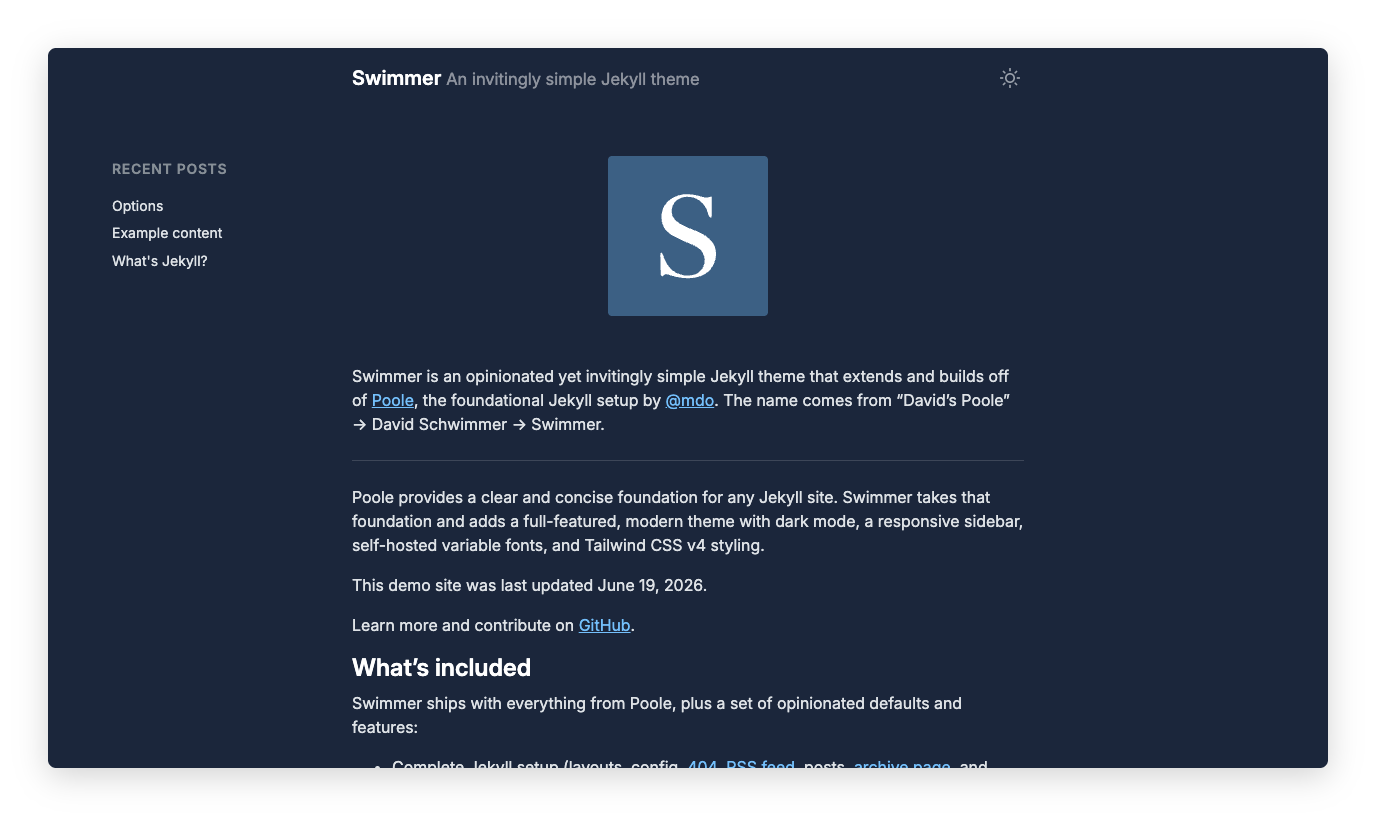
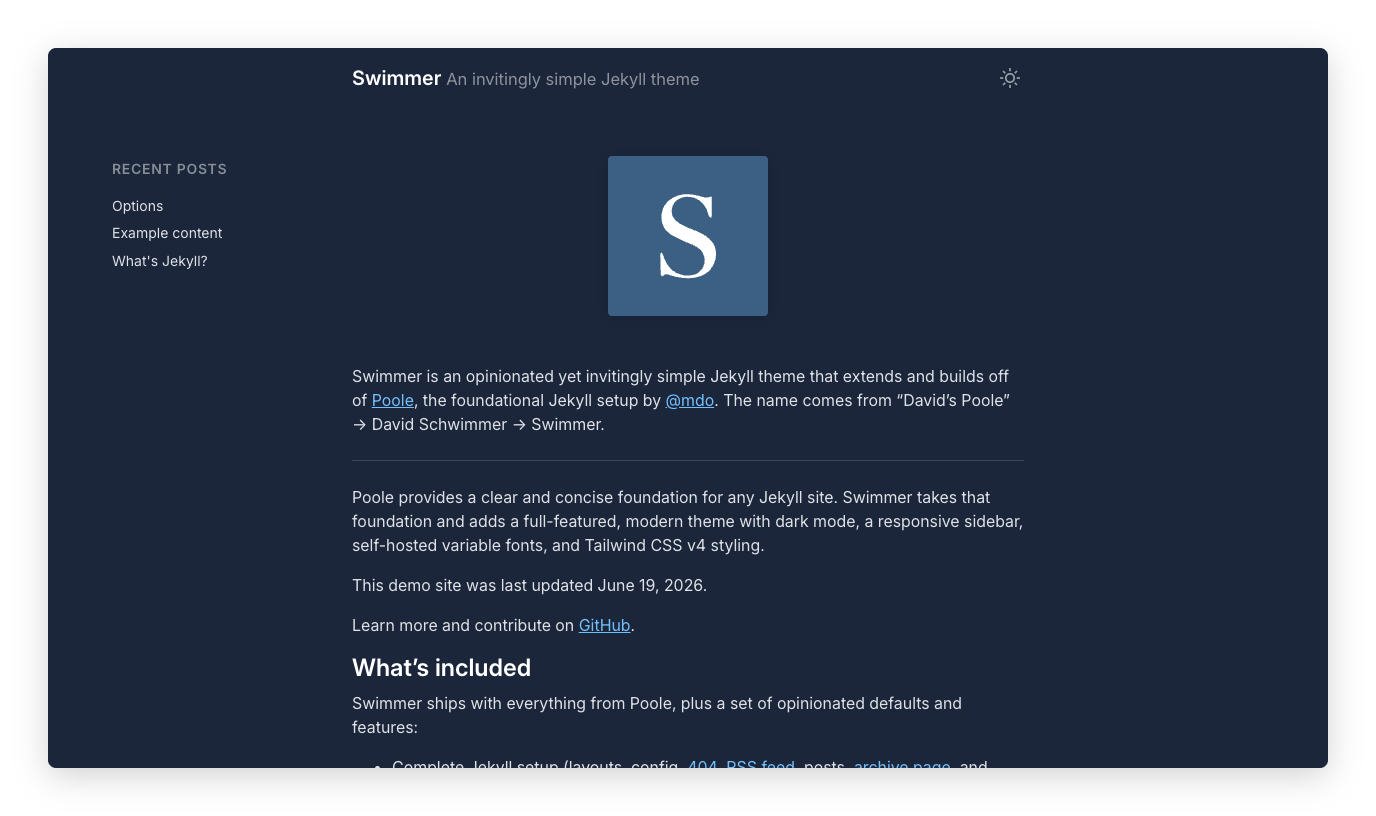
feat: Add GitHub Actions workflows for deployment and PR builds

diff --git a/styles.css b/styles.css
@@ -1,2 +1,2 @@
 /*! tailwindcss v4.3.1 | MIT License | https://tailwindcss.com */
-@layer properties{@supports (((-webkit-hyphens:none)) and (not (margin-trim:inline))) or ((-moz-orient:inline) and (not (color:rgb(from red r g b)))){*,:before,:after,::backdrop{--tw-blur:initial;--tw-brightness:initial;--tw-contrast:initial;--tw-grayscale:initial;--tw-hue-rotate:initial;--tw-invert:initial;--tw-opacity:initial;--tw-saturate:initial;--tw-sepia:initial;--tw-drop-shadow:initial;--tw-drop-shadow-color:initial;--tw-drop-shadow-alpha:100%;--tw-drop-shadow-size:initial}}}@layer theme{:root,:host{--color-blue-300:#74c0fc;--color-blue-400:#4dabf7;--color-gray-100:#f1f3f5;--color-gray-200:#e9ecef;--color-gray-300:#dee2e6;--color-gray-400:#ced4da;--color-gray-500:#adb5bd;--color-gray-600:#868e96;--color-gray-700:#495057;--color-gray-800:#343a40;--color-gray-900:#212529;--color-gray-000:#f8f9fa;--color-red:#fa5252;--color-pink:#e64980;--color-grape:#be4bdb;--color-purple:#7950f2;--color-indigo:#4c6ef5;--color-blue:#228be6;--color-cyan:#15aabf;--color-teal:#12b886;--color-green:#40c057;--color-yellow:#fab005;--color-orange:#fd7e14;--font-body:"Inter", -apple-system, BlinkMacSystemFont, "Segoe UI", Roboto, "Helvetica Neue", Arial, "Noto Sans", sans-serif, "Apple Color Emoji", "Segoe UI Emoji", "Segoe UI Symbol", "Noto Color Emoji";--font-code:"Roboto Mono", SFMono-Regular, Menlo, Monaco, Consolas, "Liberation Mono", "Courier New", monospace;--radius-default:.25rem}}@layer utilities{.fixed{position:fixed}.static{position:static}.contents{display:contents}.hidden{display:none}.inline{display:inline}.grayscale{--tw-grayscale:grayscale(100%);filter:var(--tw-blur,) var(--tw-brightness,) var(--tw-contrast,) var(--tw-grayscale,) var(--tw-hue-rotate,) var(--tw-invert,) var(--tw-saturate,) var(--tw-sepia,) var(--tw-drop-shadow,)}}@font-face{font-family:Inter;font-style:normal;font-weight:100 900;font-display:swap;src:url(assets/fonts/InterVariable.woff2)format("woff2")}@font-face{font-family:Roboto Mono;font-style:normal;font-weight:100 700;font-display:swap;src:url(assets/fonts/RobotoMono-Variable.woff2)format("woff2")}:root{--body-font-size:16px;--body-line-height:1.5;--body-color:var(--color-gray-700);--body-bg:#f7f9fc;--link-color:var(--color-blue);--link-hover-color:#1c7ed6;--heading-color:var(--color-gray-900);--border-color:var(--color-gray-400);--code-color:var(--color-grape);--code-bg:#eef0f5;--highlight-color:var(--color-gray-900);--highlight-bg:#bee5f2;--spacer:1rem;--spacer-2:calc(var(--spacer) * 1.5);--spacer-3:calc(var(--spacer) * 3)}@media (prefers-color-scheme:dark){:root:not([data-theme=light]){--body-color:var(--color-gray-300);--body-bg:#1b263b;--heading-color:#fff;--link-color:var(--color-blue-300);--link-hover-color:var(--color-blue-400);--border-color:#ffffff26;--code-bg:#131c2e;--highlight-color:var(--color-gray-200);--highlight-bg:#1e4a5e}}:root[data-theme=dark]{--body-color:var(--color-gray-300);--body-bg:#1b263b;--heading-color:#fff;--link-color:var(--color-blue-300);--link-hover-color:var(--color-blue-400);--border-color:#ffffff26;--code-bg:#131c2e;--highlight-color:var(--color-gray-200);--highlight-bg:#1e4a5e}*{box-sizing:border-box}body{font-family:var(--font-body);font-size:var(--body-font-size);line-height:var(--body-line-height);color:var(--body-color);background-color:var(--body-bg);-webkit-text-size-adjust:100%;-ms-text-size-adjust:100%;-webkit-font-smoothing:antialiased;-moz-osx-font-smoothing:grayscale;text-rendering:optimizelegibility;margin:0}a{color:var(--link-color)}a:hover,a:focus{color:var(--link-hover-color)}a strong{color:inherit}img{max-width:100%;margin-bottom:var(--spacer);border-radius:var(--radius-default);display:block}table{border:0 solid var(--border-color);border-collapse:collapse;width:100%;margin-bottom:1rem}td,th{border-color:inherit;border-style:solid;border-width:0 0 1px;padding:.25rem .5rem}th{text-align:left}thead th{border-bottom-color:currentColor}mark{color:var(--highlight-color);background-color:var(--highlight-bg);border-radius:.125rem;padding:.15rem}h1,h2,h3,h4,h5,h6{color:var(--heading-color);margin-bottom:.5rem;font-weight:600;line-height:1.25}h1{font-size:2rem}h2{margin-top:1rem;font-size:1.5rem}h3{margin-top:1.5rem;font-size:1.25rem}h4,h5,h6{margin-top:1rem;font-size:1rem}p,ul,ol,dl{margin-top:0;margin-bottom:1rem}dt{font-weight:700}dd{margin-bottom:.5rem}hr{margin:var(--spacer-2) 0;border:0;border-top:1px solid var(--border-color);position:relative}abbr{color:var(--color-gray-600);text-transform:uppercase;font-size:85%;font-weight:700}abbr[title]{cursor:help;border-bottom:1px dotted var(--border-color)}blockquote{color:var(--color-gray-600);border-left:.25rem solid var(--border-color);margin:.8rem 0;padding:.5rem 1rem}blockquote p:last-child{margin-bottom:0}@media (min-width:30em){blockquote{padding-left:1.25rem;padding-right:5rem}}figure{margin:0}a[href^="#fn:"],a[href^="#fnref:"]{margin-left:.1rem;font-weight:700;display:inline-block}.footnotes{margin-top:2rem;font-size:85%}.lead{font-size:1.25rem;font-weight:300}.highlight .hll{background-color:#ffc}.highlight .c{color:#999}.highlight .err{color:#a00;background-color:#faa}.highlight .k{color:#069}.highlight .o{color:#555}.highlight .cm{color:#09f;font-style:italic}.highlight .cp{color:#099}.highlight .c1,.highlight .cs{color:#999}.highlight .gd{background-color:#fcc;border:1px solid #c00}.highlight .ge{font-style:italic}.highlight .gr{color:red}.highlight .gh{color:#030}.highlight .gi{background-color:#cfc;border:1px solid #0c0}.highlight .go{color:#aaa}.highlight .gp{color:#009}.highlight .gu{color:#030}.highlight .gt{color:#9c6}.highlight .kc,.highlight .kd,.highlight .kn,.highlight .kp,.highlight .kr{color:#069}.highlight .kt{color:#078}.highlight .m{color:#f60}.highlight .s{color:#d44950}.highlight .na{color:#4f9fcf}.highlight .nb{color:#366}.highlight .nc{color:#0a8}.highlight .no{color:#360}.highlight .nd{color:#99f}.highlight .ni{color:#999}.highlight .ne{color:#c00}.highlight .nf{color:#c0f}.highlight .nl{color:#99f}.highlight .nn{color:#0cf}.highlight .nt{color:#2f6f9f}.highlight .nv{color:#033}.highlight .ow{color:#000}.highlight .w{color:#bbb}.highlight .mf,.highlight .mh,.highlight .mi,.highlight .mo{color:#f60}.highlight .sb,.highlight .sc{color:#c30}.highlight .sd{color:#c30;font-style:italic}.highlight .s2,.highlight .se,.highlight .sh{color:#c30}.highlight .si{color:#a00}.highlight .sx{color:#c30}.highlight .sr{color:#3aa}.highlight .s1{color:#c30}.highlight .ss{color:#b58900}.highlight .bp{color:#366}.highlight .vc,.highlight .vg,.highlight .vi{color:#033}.highlight .il{color:#f60}.css .o,.css .o+.nt,.css .nt+.nt{color:#999}@media (prefers-color-scheme:dark){:root:not([data-theme=light]) .highlight .hll{background-color:#ffffc814}:root:not([data-theme=light]) .highlight .err{color:#e55;background-color:#ff646426}:root:not([data-theme=light]) .highlight .o{color:#999}:root:not([data-theme=light]) .highlight .cp{color:#2cc}:root:not([data-theme=light]) .highlight .gd{background-color:#ff64641a;border-color:#c55}:root:not([data-theme=light]) .highlight .gh,:root:not([data-theme=light]) .highlight .gu{color:#6abf6a}:root:not([data-theme=light]) .highlight .gi{background-color:#64ff641a;border-color:#5a5}:root:not([data-theme=light]) .highlight .gp{color:#68d}:root:not([data-theme=light]) .highlight .k,:root:not([data-theme=light]) .highlight .kc,:root:not([data-theme=light]) .highlight .kd,:root:not([data-theme=light]) .highlight .kn,:root:not([data-theme=light]) .highlight .kp,:root:not([data-theme=light]) .highlight .kr,:root:not([data-theme=light]) .highlight .kt{color:#5aa8d8}:root:not([data-theme=light]) .highlight .nb,:root:not([data-theme=light]) .highlight .bp{color:#5dadad}:root:not([data-theme=light]) .highlight .nc{color:#2cc9a8}:root:not([data-theme=light]) .highlight .no{color:#7abf4a}:root:not([data-theme=light]) .highlight .nt{color:#5ab0e0}:root:not([data-theme=light]) .highlight .nv,:root:not([data-theme=light]) .highlight .vc,:root:not([data-theme=light]) .highlight .vg,:root:not([data-theme=light]) .highlight .vi{color:#5dadad}:root:not([data-theme=light]) .highlight .ow{color:silver}:root:not([data-theme=light]) .highlight .sr{color:#5cc}}:root[data-theme=dark] .highlight .hll{background-color:#ffffc814}:root[data-theme=dark] .highlight .err{color:#e55;background-color:#ff646426}:root[data-theme=dark] .highlight .o{color:#999}:root[data-theme=dark] .highlight .cp{color:#2cc}:root[data-theme=dark] .highlight .gd{background-color:#ff64641a;border-color:#c55}:root[data-theme=dark] .highlight .gh,:root[data-theme=dark] .highlight .gu{color:#6abf6a}:root[data-theme=dark] .highlight .gi{background-color:#64ff641a;border-color:#5a5}:root[data-theme=dark] .highlight .gp{color:#68d}:root[data-theme=dark] .highlight .k,:root[data-theme=dark] .highlight .kc,:root[data-theme=dark] .highlight .kd,:root[data-theme=dark] .highlight .kn,:root[data-theme=dark] .highlight .kp,:root[data-theme=dark] .highlight .kr,:root[data-theme=dark] .highlight .kt{color:#5aa8d8}:root[data-theme=dark] .highlight .nb,:root[data-theme=dark] .highlight .bp{color:#5dadad}:root[data-theme=dark] .highlight .nc{color:#2cc9a8}:root[data-theme=dark] .highlight .no{color:#7abf4a}:root[data-theme=dark] .highlight .nt{color:#5ab0e0}:root[data-theme=dark] .highlight .nv,:root[data-theme=dark] .highlight .vc,:root[data-theme=dark] .highlight .vg,:root[data-theme=dark] .highlight .vi{color:#5dadad}:root[data-theme=dark] .highlight .ow{color:silver}:root[data-theme=dark] .highlight .sr{color:#5cc}code,pre{font-family:var(--font-code)}code{font-size:85%}pre{margin-top:0;margin-bottom:var(--spacer-3);display:block;overflow:auto}.highlight{padding:var(--spacer);margin-bottom:var(--spacer);background-color:var(--code-bg);border-radius:var(--radius-default)}.highlight pre{margin-bottom:0}.highlight .highlight{padding:0}.rouge-table{margin-bottom:0;font-size:100%}.rouge-table,.rouge-table td,.rouge-table th{border:0}.rouge-table .gutter{vertical-align:top;-webkit-user-select:none;user-select:none;opacity:.25}.gist .markdown-body{padding:15px!important}.site-container{max-width:45rem;padding-left:var(--spacer-2);padding-right:var(--spacer-2);margin-left:auto;margin-right:auto}footer{margin-top:var(--spacer-3);margin-bottom:var(--spacer-3)}.landing-logo{margin:0 auto var(--spacer-3);border-radius:var(--radius-default);display:block}.masthead{justify-content:space-between;align-items:center;gap:var(--spacer);padding-top:var(--spacer);padding-bottom:var(--spacer);margin-bottom:var(--spacer-3);display:flex}.masthead-title{margin-top:0;margin-bottom:0}.masthead-title a{color:inherit;text-decoration:none}.masthead-title small{opacity:.5;font-weight:400}.theme-toggle{cursor:pointer;color:var(--body-color);opacity:.65;background:0 0;border:none;flex-shrink:0;padding:.25rem;line-height:1;transition:opacity .2s}.theme-toggle:hover{opacity:1}.theme-toggle svg{width:1.25rem;height:1.25rem;display:block}.theme-toggle .icon-sun{display:none}.theme-toggle .icon-moon{display:block}@media (prefers-color-scheme:dark){:root:not([data-theme=light]) .theme-toggle .icon-sun{display:block}:root:not([data-theme=light]) .theme-toggle .icon-moon{display:none}}:root[data-theme=dark] .theme-toggle .icon-sun{display:block}:root[data-theme=dark] .theme-toggle .icon-moon,:root[data-theme=light] .theme-toggle .icon-sun{display:none}:root[data-theme=light] .theme-toggle .icon-moon{display:block}.page,.post{margin-bottom:4em}:is(.page,.post) li+li{margin-top:.25rem}.page-title,.post-title{color:var(--heading-color);margin-top:0}.post-title a{color:inherit;text-decoration:none}.post-title a:hover,.post-title a:focus{text-decoration:underline}.post-date{margin-top:-.5rem;margin-bottom:var(--spacer);color:var(--color-gray-600);display:block}.related{padding-top:var(--spacer-2);padding-bottom:var(--spacer-2);margin-bottom:var(--spacer-2);border-top:1px solid var(--border-color);border-bottom:1px solid var(--border-color)}.related-posts{padding-left:0;list-style:none}.related-posts h3{margin-top:0}.related-posts a{text-decoration:none}.related-posts a small{color:var(--color-gray-600)}.post-sidebar-toggle{z-index:40;border:1px solid var(--border-color);border-radius:var(--radius-default);background-color:var(--body-bg);width:2.25rem;height:2.25rem;color:var(--body-color);cursor:pointer;justify-content:center;align-items:center;padding:0;transition:opacity .2s;display:flex;position:fixed;top:.75rem;left:.75rem}.post-sidebar-toggle svg{width:1.25rem;height:1.25rem;display:block}.post-sidebar-toggle:hover{opacity:.7}.post-sidebar-backdrop{z-index:20;opacity:0;pointer-events:none;background:#0006;transition:opacity .25s;position:fixed;inset:0}.post-sidebar-backdrop.open{opacity:1;pointer-events:auto}.post-sidebar{z-index:30;width:16rem;padding:var(--spacer-2);padding-top:var(--spacer-3);background-color:var(--body-bg);border-right:1px solid var(--border-color);transition:transform .25s;position:fixed;top:0;bottom:0;left:0;overflow-y:auto;transform:translate(-100%)}.post-sidebar.open{transform:translate(0)}.post-sidebar-heading{margin-top:0;margin-bottom:var(--spacer);letter-spacing:.05em;text-transform:uppercase;color:var(--color-gray-600);font-size:.875rem;font-weight:600}.post-sidebar-heading--related{margin-top:var(--spacer);padding-top:var(--spacer);border-top:1px solid var(--border-color)}.post-sidebar-list{margin:0;padding-left:0;list-style:none}.post-sidebar-list li+li{margin-top:.25rem}.post-sidebar-list a{color:var(--body-color);padding:.125rem 0;font-size:.875rem;line-height:1.4;text-decoration:none;display:block}.post-sidebar-list a:hover,.post-sidebar-list a:focus{color:var(--link-color)}.post-sidebar-list a.active{color:var(--heading-color);font-weight:600}.post-sidebar-list a.active:before{content:"→ "}@media (min-width:75rem){.post-sidebar-toggle,.post-sidebar-backdrop{display:none}.post-sidebar{top:7rem;left:calc((100vw - 45rem) / 2 - 12rem - var(--spacer-2));z-index:auto;background-color:#0000;border-right:none;width:12rem;max-height:calc(100vh - 8rem);padding:0;transition:none;position:fixed;bottom:auto;overflow-y:auto;transform:none}}.pagination{margin:0 -1.5rem var(--spacer);color:var(--color-gray-600);text-align:center;flex-direction:column;display:flex}.pagination-item{padding:var(--spacer);border:solid var(--border-color);border-width:1px 0;text-decoration:none;display:block}.pagination-item:first-child{margin-bottom:-1px}a.pagination-item:hover{background-color:var(--border-color)}@media (min-width:30em){.pagination{margin:var(--spacer-3) 0;flex-direction:row}.pagination-item{float:left;border-width:1px;width:50%}.pagination-item:first-child{border-top-left-radius:var(--radius-default);border-bottom-left-radius:var(--radius-default);margin-bottom:0}.pagination-item:last-child{border-top-right-radius:var(--radius-default);border-bottom-right-radius:var(--radius-default);margin-left:-1px}}.message{padding:var(--spacer);margin-bottom:var(--spacer);color:var(--highlight-color);background-color:var(--highlight-bg);border-radius:var(--radius-default)}#markdown-toc{padding:var(--spacer-2) var(--spacer-3);margin-bottom:var(--spacer-2);border:solid var(--border-color);border-width:1px 0}#markdown-toc:before{margin-left:calc(var(--spacer-3) * -1);content:"Contents";font-size:85%;font-weight:500;display:block}.colors{grid-template-columns:max-content 1fr;display:grid}.colors dt{border-radius:var(--radius-default);width:3rem;height:3rem;box-shadow:inset 0 0 0 1px #ffffff26}.colors dd{margin-left:var(--spacer)}@property --tw-blur{syntax:"*";inherits:false}@property --tw-brightness{syntax:"*";inherits:false}@property --tw-contrast{syntax:"*";inherits:false}@property --tw-grayscale{syntax:"*";inherits:false}@property --tw-hue-rotate{syntax:"*";inherits:false}@property --tw-invert{syntax:"*";inherits:false}@property --tw-opacity{syntax:"*";inherits:false}@property --tw-saturate{syntax:"*";inherits:false}@property --tw-sepia{syntax:"*";inherits:false}@property --tw-drop-shadow{syntax:"*";inherits:false}@property --tw-drop-shadow-color{syntax:"*";inherits:false}@property --tw-drop-shadow-alpha{syntax:"<percentage>";inherits:false;initial-value:100%}@property --tw-drop-shadow-size{syntax:"*";inherits:false}
+@layer properties{@supports (((-webkit-hyphens:none)) and (not (margin-trim:inline))) or ((-moz-orient:inline) and (not (color:rgb(from red r g b)))){*,:before,:after,::backdrop{--tw-blur:initial;--tw-brightness:initial;--tw-contrast:initial;--tw-grayscale:initial;--tw-hue-rotate:initial;--tw-invert:initial;--tw-opacity:initial;--tw-saturate:initial;--tw-sepia:initial;--tw-drop-shadow:initial;--tw-drop-shadow-color:initial;--tw-drop-shadow-alpha:100%;--tw-drop-shadow-size:initial}}}@layer theme{:root,:host{--color-blue-300:#74c0fc;--color-blue-400:#4dabf7;--color-gray-100:#f1f3f5;--color-gray-200:#e9ecef;--color-gray-300:#dee2e6;--color-gray-400:#ced4da;--color-gray-500:#adb5bd;--color-gray-600:#868e96;--color-gray-700:#495057;--color-gray-800:#343a40;--color-gray-900:#212529;--color-gray-000:#f8f9fa;--color-red:#fa5252;--color-pink:#e64980;--color-grape:#be4bdb;--color-purple:#7950f2;--color-indigo:#4c6ef5;--color-blue:#228be6;--color-cyan:#15aabf;--color-teal:#12b886;--color-green:#40c057;--color-yellow:#fab005;--color-orange:#fd7e14;--font-body:"Inter", -apple-system, BlinkMacSystemFont, "Segoe UI", Roboto, "Helvetica Neue", Arial, "Noto Sans", sans-serif, "Apple Color Emoji", "Segoe UI Emoji", "Segoe UI Symbol", "Noto Color Emoji";--font-code:"Roboto Mono", SFMono-Regular, Menlo, Monaco, Consolas, "Liberation Mono", "Courier New", monospace;--radius-default:.25rem}}@layer utilities{.fixed{position:fixed}.static{position:static}.contents{display:contents}.hidden{display:none}.inline{display:inline}.grayscale{--tw-grayscale:grayscale(100%);filter:var(--tw-blur,) var(--tw-brightness,) var(--tw-contrast,) var(--tw-grayscale,) var(--tw-hue-rotate,) var(--tw-invert,) var(--tw-saturate,) var(--tw-sepia,) var(--tw-drop-shadow,)}}@font-face{font-family:Inter;font-style:normal;font-weight:100 900;font-display:swap;src:url(assets/fonts/InterVariable.woff2)format("woff2")}@font-face{font-family:Roboto Mono;font-style:normal;font-weight:100 700;font-display:swap;src:url(assets/fonts/RobotoMono-Variable.woff2)format("woff2")}:root{--body-font-size:16px;--body-line-height:1.5;--body-color:var(--color-gray-700);--body-bg:#f7f9fc;--link-color:var(--color-blue);--link-hover-color:#1c7ed6;--heading-color:var(--color-gray-900);--border-color:var(--color-gray-400);--code-color:var(--color-grape);--code-bg:#eef0f5;--highlight-color:var(--color-gray-900);--highlight-bg:#bee5f2;--spacer:1rem;--spacer-2:calc(var(--spacer) * 1.5);--spacer-3:calc(var(--spacer) * 3)}@media (prefers-color-scheme:dark){:root:not([data-theme=light]){--body-color:var(--color-gray-300);--body-bg:#1b263b;--heading-color:#fff;--link-color:var(--color-blue-300);--link-hover-color:var(--color-blue-400);--border-color:#ffffff26;--code-bg:#131c2e;--highlight-color:var(--color-gray-200);--highlight-bg:#1e4a5e}}:root[data-theme=dark]{--body-color:var(--color-gray-300);--body-bg:#1b263b;--heading-color:#fff;--link-color:var(--color-blue-300);--link-hover-color:var(--color-blue-400);--border-color:#ffffff26;--code-bg:#131c2e;--highlight-color:var(--color-gray-200);--highlight-bg:#1e4a5e}*{box-sizing:border-box}body{font-family:var(--font-body);font-size:var(--body-font-size);line-height:var(--body-line-height);color:var(--body-color);background-color:var(--body-bg);-webkit-text-size-adjust:100%;-ms-text-size-adjust:100%;-webkit-font-smoothing:antialiased;-moz-osx-font-smoothing:grayscale;text-rendering:optimizelegibility;margin:0}a{color:var(--link-color)}a:hover,a:focus{color:var(--link-hover-color)}a strong{color:inherit}img{max-width:100%;margin-bottom:var(--spacer);border-radius:var(--radius-default);display:block}table{border:0 solid var(--border-color);border-collapse:collapse;width:100%;margin-bottom:1rem}td,th{border-color:inherit;border-style:solid;border-width:0 0 1px;padding:.25rem .5rem}th{text-align:left}thead th{border-bottom-color:currentColor}mark{color:var(--highlight-color);background-color:var(--highlight-bg);border-radius:.125rem;padding:.15rem}h1,h2,h3,h4,h5,h6{color:var(--heading-color);margin-bottom:.5rem;font-weight:600;line-height:1.25}h1{font-size:2rem}h2{margin-top:1rem;font-size:1.5rem}h3{margin-top:1.5rem;font-size:1.25rem}h4,h5,h6{margin-top:1rem;font-size:1rem}p,ul,ol,dl{margin-top:0;margin-bottom:1rem}dt{font-weight:700}dd{margin-bottom:.5rem}hr{margin:var(--spacer-2) 0;border:0;border-top:1px solid var(--border-color);position:relative}abbr{color:var(--color-gray-600);text-transform:uppercase;font-size:85%;font-weight:700}abbr[title]{cursor:help;border-bottom:1px dotted var(--border-color)}blockquote{color:var(--color-gray-600);border-left:.25rem solid var(--border-color);margin:.8rem 0;padding:.5rem 1rem}blockquote p:last-child{margin-bottom:0}@media (min-width:30em){blockquote{padding-left:1.25rem;padding-right:5rem}}figure{margin:0}a[href^="#fn:"],a[href^="#fnref:"]{margin-left:.1rem;font-weight:700;display:inline-block}.footnotes{margin-top:2rem;font-size:85%}.lead{font-size:1.25rem;font-weight:300}.highlight .hll{background-color:#ffc}.highlight .c{color:#999}.highlight .err{color:#a00;background-color:#faa}.highlight .k{color:#069}.highlight .o{color:#555}.highlight .cm{color:#09f;font-style:italic}.highlight .cp{color:#099}.highlight .c1,.highlight .cs{color:#999}.highlight .gd{background-color:#fcc;border:1px solid #c00}.highlight .ge{font-style:italic}.highlight .gr{color:red}.highlight .gh{color:#030}.highlight .gi{background-color:#cfc;border:1px solid #0c0}.highlight .go{color:#aaa}.highlight .gp{color:#009}.highlight .gu{color:#030}.highlight .gt{color:#9c6}.highlight .kc,.highlight .kd,.highlight .kn,.highlight .kp,.highlight .kr{color:#069}.highlight .kt{color:#078}.highlight .m{color:#f60}.highlight .s{color:#d44950}.highlight .na{color:#4f9fcf}.highlight .nb{color:#366}.highlight .nc{color:#0a8}.highlight .no{color:#360}.highlight .nd{color:#99f}.highlight .ni{color:#999}.highlight .ne{color:#c00}.highlight .nf{color:#c0f}.highlight .nl{color:#99f}.highlight .nn{color:#0cf}.highlight .nt{color:#2f6f9f}.highlight .nv{color:#033}.highlight .ow{color:#000}.highlight .w{color:#bbb}.highlight .mf,.highlight .mh,.highlight .mi,.highlight .mo{color:#f60}.highlight .sb,.highlight .sc{color:#c30}.highlight .sd{color:#c30;font-style:italic}.highlight .s2,.highlight .se,.highlight .sh{color:#c30}.highlight .si{color:#a00}.highlight .sx{color:#c30}.highlight .sr{color:#3aa}.highlight .s1{color:#c30}.highlight .ss{color:#b58900}.highlight .bp{color:#366}.highlight .vc,.highlight .vg,.highlight .vi{color:#033}.highlight .il{color:#f60}.css .o,.css .o+.nt,.css .nt+.nt{color:#999}@media (prefers-color-scheme:dark){:root:not([data-theme=light]) .highlight .hll{background-color:#ffffc814}:root:not([data-theme=light]) .highlight .err{color:#e55;background-color:#ff646426}:root:not([data-theme=light]) .highlight .o{color:#999}:root:not([data-theme=light]) .highlight .cp{color:#2cc}:root:not([data-theme=light]) .highlight .gd{background-color:#ff64641a;border-color:#c55}:root:not([data-theme=light]) .highlight .gh,:root:not([data-theme=light]) .highlight .gu{color:#6abf6a}:root:not([data-theme=light]) .highlight .gi{background-color:#64ff641a;border-color:#5a5}:root:not([data-theme=light]) .highlight .gp{color:#68d}:root:not([data-theme=light]) .highlight .k,:root:not([data-theme=light]) .highlight .kc,:root:not([data-theme=light]) .highlight .kd,:root:not([data-theme=light]) .highlight .kn,:root:not([data-theme=light]) .highlight .kp,:root:not([data-theme=light]) .highlight .kr,:root:not([data-theme=light]) .highlight .kt{color:#5aa8d8}:root:not([data-theme=light]) .highlight .nb,:root:not([data-theme=light]) .highlight .bp{color:#5dadad}:root:not([data-theme=light]) .highlight .nc{color:#2cc9a8}:root:not([data-theme=light]) .highlight .no{color:#7abf4a}:root:not([data-theme=light]) .highlight .nt{color:#5ab0e0}:root:not([data-theme=light]) .highlight .nv,:root:not([data-theme=light]) .highlight .vc,:root:not([data-theme=light]) .highlight .vg,:root:not([data-theme=light]) .highlight .vi{color:#5dadad}:root:not([data-theme=light]) .highlight .ow{color:silver}:root:not([data-theme=light]) .highlight .sr{color:#5cc}}:root[data-theme=dark] .highlight .hll{background-color:#ffffc814}:root[data-theme=dark] .highlight .err{color:#e55;background-color:#ff646426}:root[data-theme=dark] .highlight .o{color:#999}:root[data-theme=dark] .highlight .cp{color:#2cc}:root[data-theme=dark] .highlight .gd{background-color:#ff64641a;border-color:#c55}:root[data-theme=dark] .highlight .gh,:root[data-theme=dark] .highlight .gu{color:#6abf6a}:root[data-theme=dark] .highlight .gi{background-color:#64ff641a;border-color:#5a5}:root[data-theme=dark] .highlight .gp{color:#68d}:root[data-theme=dark] .highlight .k,:root[data-theme=dark] .highlight .kc,:root[data-theme=dark] .highlight .kd,:root[data-theme=dark] .highlight .kn,:root[data-theme=dark] .highlight .kp,:root[data-theme=dark] .highlight .kr,:root[data-theme=dark] .highlight .kt{color:#5aa8d8}:root[data-theme=dark] .highlight .nb,:root[data-theme=dark] .highlight .bp{color:#5dadad}:root[data-theme=dark] .highlight .nc{color:#2cc9a8}:root[data-theme=dark] .highlight .no{color:#7abf4a}:root[data-theme=dark] .highlight .nt{color:#5ab0e0}:root[data-theme=dark] .highlight .nv,:root[data-theme=dark] .highlight .vc,:root[data-theme=dark] .highlight .vg,:root[data-theme=dark] .highlight .vi{color:#5dadad}:root[data-theme=dark] .highlight .ow{color:silver}:root[data-theme=dark] .highlight .sr{color:#5cc}code,pre{font-family:var(--font-code)}code{font-size:85%}pre{margin-top:0;margin-bottom:var(--spacer-3);display:block;overflow:auto}.highlight{padding:var(--spacer);margin-bottom:var(--spacer);background-color:var(--code-bg);border-radius:var(--radius-default)}.highlight pre{margin-bottom:0}.highlight .highlight{padding:0}.rouge-table{margin-bottom:0;font-size:100%}.rouge-table,.rouge-table td,.rouge-table th{border:0}.rouge-table .gutter{vertical-align:top;-webkit-user-select:none;user-select:none;opacity:.25}.gist .markdown-body{padding:15px!important}.site-container{max-width:45rem;padding-left:var(--spacer-2);padding-right:var(--spacer-2);margin-left:auto;margin-right:auto}footer{margin-top:var(--spacer-3);margin-bottom:var(--spacer-3)}.landing-logo{margin:0 auto var(--spacer-3);border-radius:var(--radius-default);filter:drop-shadow(0 2px 8px #00000026);display:block}.masthead{justify-content:space-between;align-items:center;gap:var(--spacer);padding-top:var(--spacer);padding-bottom:var(--spacer);margin-bottom:var(--spacer-3);display:flex}.masthead-title{margin-top:0;margin-bottom:0}.masthead-title a{color:inherit;text-decoration:none}.masthead-title small{opacity:.5;font-weight:400}.theme-toggle{cursor:pointer;color:var(--body-color);opacity:.65;background:0 0;border:none;flex-shrink:0;padding:.25rem;line-height:1;transition:opacity .2s}.theme-toggle:hover{opacity:1}.theme-toggle svg{width:1.25rem;height:1.25rem;display:block}.theme-toggle .icon-sun{display:none}.theme-toggle .icon-moon{display:block}@media (prefers-color-scheme:dark){:root:not([data-theme=light]) .theme-toggle .icon-sun{display:block}:root:not([data-theme=light]) .theme-toggle .icon-moon{display:none}}:root[data-theme=dark] .theme-toggle .icon-sun{display:block}:root[data-theme=dark] .theme-toggle .icon-moon,:root[data-theme=light] .theme-toggle .icon-sun{display:none}:root[data-theme=light] .theme-toggle .icon-moon{display:block}.page,.post{margin-bottom:4em}:is(.page,.post) li+li{margin-top:.25rem}.page-title,.post-title{color:var(--heading-color);margin-top:0}.post-title a{color:inherit;text-decoration:none}.post-title a:hover,.post-title a:focus{text-decoration:underline}.post-date{margin-top:-.5rem;margin-bottom:var(--spacer);color:var(--color-gray-600);display:block}.related{padding-top:var(--spacer-2);padding-bottom:var(--spacer-2);margin-bottom:var(--spacer-2);border-top:1px solid var(--border-color);border-bottom:1px solid var(--border-color)}.related-posts{padding-left:0;list-style:none}.related-posts h3{margin-top:0}.related-posts a{text-decoration:none}.related-posts a small{color:var(--color-gray-600)}.post-sidebar-toggle{z-index:40;border:1px solid var(--border-color);border-radius:var(--radius-default);background-color:var(--body-bg);width:2.25rem;height:2.25rem;color:var(--body-color);cursor:pointer;justify-content:center;align-items:center;padding:0;transition:opacity .2s;display:flex;position:fixed;top:.75rem;left:.75rem}.post-sidebar-toggle svg{width:1.25rem;height:1.25rem;display:block}.post-sidebar-toggle:hover{opacity:.7}.post-sidebar-backdrop{z-index:20;opacity:0;pointer-events:none;background:#0006;transition:opacity .25s;position:fixed;inset:0}.post-sidebar-backdrop.open{opacity:1;pointer-events:auto}.post-sidebar{z-index:30;width:16rem;padding:var(--spacer-2);padding-top:var(--spacer-3);background-color:var(--body-bg);border-right:1px solid var(--border-color);transition:transform .25s;position:fixed;top:0;bottom:0;left:0;overflow-y:auto;transform:translate(-100%)}.post-sidebar.open{transform:translate(0)}.post-sidebar-heading{margin-top:0;margin-bottom:var(--spacer);letter-spacing:.05em;text-transform:uppercase;color:var(--color-gray-600);font-size:.875rem;font-weight:600}.post-sidebar-heading--related{margin-top:var(--spacer);padding-top:var(--spacer);border-top:1px solid var(--border-color)}.post-sidebar-list{margin:0;padding-left:0;list-style:none}.post-sidebar-list li+li{margin-top:.25rem}.post-sidebar-list a{color:var(--body-color);padding:.125rem 0;font-size:.875rem;line-height:1.4;text-decoration:none;display:block}.post-sidebar-list a:hover,.post-sidebar-list a:focus{color:var(--link-color)}.post-sidebar-list a.active{color:var(--heading-color);font-weight:600}.post-sidebar-list a.active:before{content:"→ "}@media (min-width:75rem){.post-sidebar-toggle,.post-sidebar-backdrop{display:none}.post-sidebar{top:7rem;left:calc((100vw - 45rem) / 2 - 12rem - var(--spacer-2));z-index:auto;background-color:#0000;border-right:none;width:12rem;max-height:calc(100vh - 8rem);padding:0;transition:none;position:fixed;bottom:auto;overflow-y:auto;transform:none}}.pagination{margin:0 -1.5rem var(--spacer);color:var(--color-gray-600);text-align:center;flex-direction:column;display:flex}.pagination-item{padding:var(--spacer);border:solid var(--border-color);border-width:1px 0;text-decoration:none;display:block}.pagination-item:first-child{margin-bottom:-1px}a.pagination-item:hover{background-color:var(--border-color)}@media (min-width:30em){.pagination{margin:var(--spacer-3) 0;flex-direction:row}.pagination-item{float:left;border-width:1px;width:50%}.pagination-item:first-child{border-top-left-radius:var(--radius-default);border-bottom-left-radius:var(--radius-default);margin-bottom:0}.pagination-item:last-child{border-top-right-radius:var(--radius-default);border-bottom-right-radius:var(--radius-default);margin-left:-1px}}.message{padding:var(--spacer);margin-bottom:var(--spacer);color:var(--highlight-color);background-color:var(--highlight-bg);border-radius:var(--radius-default)}#markdown-toc{padding:var(--spacer-2) var(--spacer-3);margin-bottom:var(--spacer-2);border:solid var(--border-color);border-width:1px 0}#markdown-toc:before{margin-left:calc(var(--spacer-3) * -1);content:"Contents";font-size:85%;font-weight:500;display:block}.colors{grid-template-columns:max-content 1fr;display:grid}.colors dt{border-radius:var(--radius-default);width:3rem;height:3rem;box-shadow:inset 0 0 0 1px #ffffff26}.colors dd{margin-left:var(--spacer)}@property --tw-blur{syntax:"*";inherits:false}@property --tw-brightness{syntax:"*";inherits:false}@property --tw-contrast{syntax:"*";inherits:false}@property --tw-grayscale{syntax:"*";inherits:false}@property --tw-hue-rotate{syntax:"*";inherits:false}@property --tw-invert{syntax:"*";inherits:false}@property --tw-opacity{syntax:"*";inherits:false}@property --tw-saturate{syntax:"*";inherits:false}@property --tw-sepia{syntax:"*";inherits:false}@property --tw-drop-shadow{syntax:"*";inherits:false}@property --tw-drop-shadow-color{syntax:"*";inherits:false}@property --tw-drop-shadow-alpha{syntax:"<percentage>";inherits:false;initial-value:100%}@property --tw-drop-shadow-size{syntax:"*";inherits:false}

diff --git a/_css/layout.css b/_css/layout.css
@@ -15,4 +15,5 @@ footer {
   display: block;
   margin: 0 auto var(--spacer-3);
   border-radius: var(--radius-default);
+  filter: drop-shadow(0 2px 8px rgba(0, 0, 0, 0.15));
 }

diff --git a/about.md b/about.md
@@ -9,7 +9,7 @@ title: About
 
 Swimmer is a Jekyll theme forked from [Poole](https://getpoole.com) by [@mdo](https://twitter.com/mdo). The name comes from "David's Poole" &rarr; David Schwimmer &rarr; Swimmer.
 
-Learn more and contribute on [GitHub](https://github.com/dsillman2000/swimmer).
+Learn more and contribute on [GitHub]({{ site.repository }}).
 
 ## Setup
 
@@ -18,6 +18,6 @@ Some fun facts about the setup of this project include:
 - Built for [Jekyll](https://jekyllrb.com)
 - Developed on GitHub and hosted for free on [GitHub Pages](https://pages.github.com)
 
-Have questions or suggestions? Feel free to [open an issue on GitHub](https://github.com/dsillman2000/swimmer/issues/new).
+Have questions or suggestions? Feel free to [open an issue on GitHub]({{ site.repository }}/issues/new).
 
 Thanks for reading!

diff --git a/index.md b/index.md
@@ -13,7 +13,7 @@ Poole provides a clear and concise foundation for any Jekyll site. Swimmer takes
 
 This demo site was last updated {{ site.time | date: "%B %d, %Y" }}.
 
-Learn more and contribute on [GitHub]({{ site.github.repo }}).
+Learn more and contribute on [GitHub]({{ site.repository }}).
 
 ## What's included
 
@@ -34,6 +34,6 @@ Swimmer targets the latest versions of Chrome, Safari (mobile and desktop), Fire
 
 ## Download
 
-Swimmer is developed on and hosted with GitHub. Head to the [GitHub repository]({{ site.github.repo }}) for downloads, bug reports, and feature requests.
+Swimmer is developed on and hosted with GitHub. Head to the [GitHub repository]({{ site.repository }}) for downloads, bug reports, and feature requests.
 
 Thanks!

diff --git a/_posts/2026-06-02-example-content.md b/_posts/2026-06-02-example-content.md
@@ -165,6 +165,6 @@ Nullam id dolor id nibh ultricies vehicula ut id elit. Sed posuere consectetur e
 
 -----
 
-Want to see something else added? <a href="https://github.com/dsillman2000/swimmer/issues/new">Open an issue.</a>
+Want to see something else added? <a href="{{ site.repository }}/issues/new">Open an issue.</a>
 
 [^fn-sample_footnote]: Handy! Now click the return link to go back.